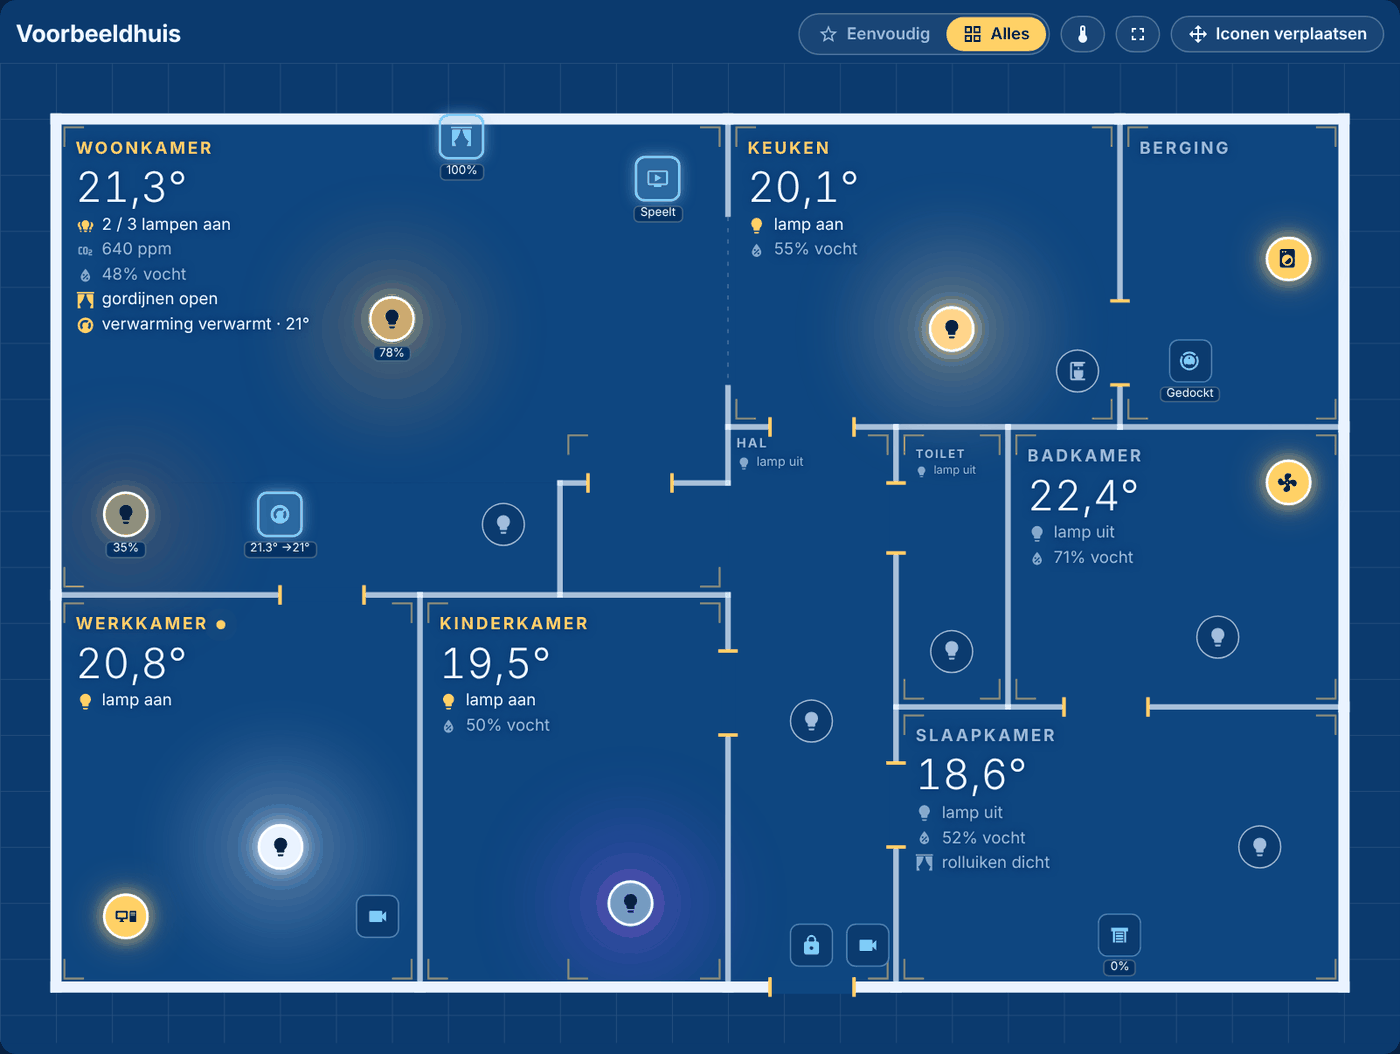
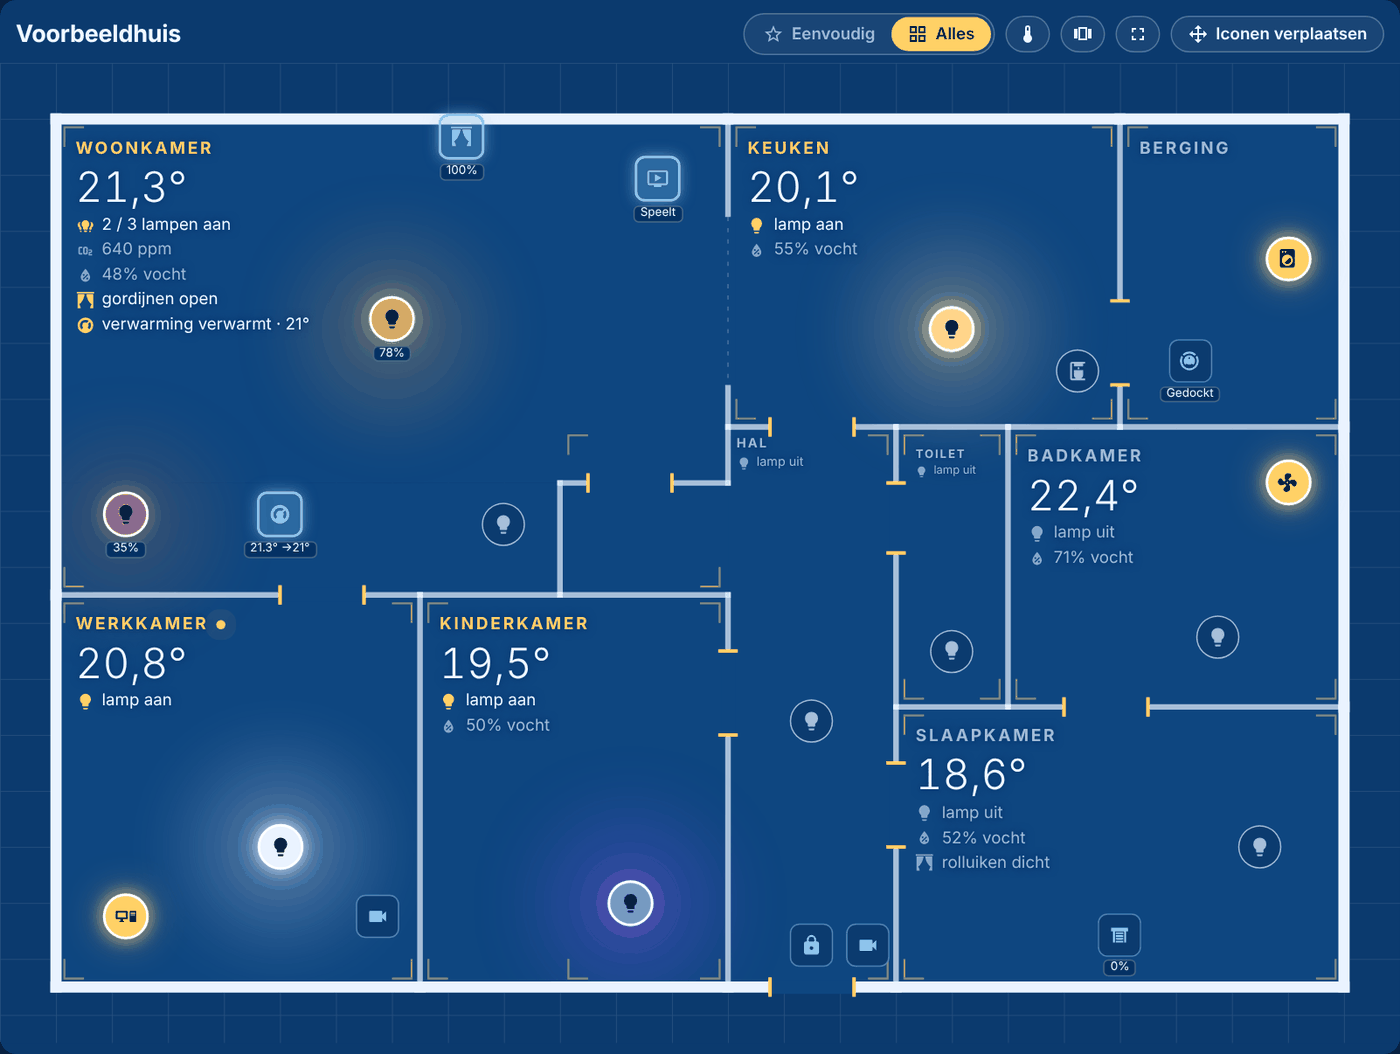
1.1.3: knop per ruimte / hele plattegrond, per apparaat

Changed region(s): [[0.5529, 0.0, 0.7679, 0.0607], [0.0614, 0.4554, 0.1229, 0.5161]]

diff --git a/custom_components/floorplan_studio/frontend/floorplan-studio-card.js b/custom_components/floorplan_studio/frontend/floorplan-studio-card.js
@@ -4,8 +4,8 @@ import {
   PLACE_DOMAINS, LAMP_DOMAINS, settingsOf, levelMode, isOn, friendly, lightColor, shortState, loadPlans, savePlan, loadUsage, fire, esc,
   themeFromEntity, themeKey, roomPath, navigate, tempColor, roomPresence, roomAlerts, planVacuum, vacuumMapEntity, VACUUM_BUSY, transformImage,
   labelSpot, roomTextWidth,
-} from './fps-core.js?v=1.1.2';
-import { roomInfo, greeting, sideConfig, weatherInfo, mainAction, energyInfo, statusRow } from './fps-info.js?v=1.1.2';
+} from './fps-core.js?v=1.1.3';
+import { roomInfo, greeting, sideConfig, weatherInfo, mainAction, energyInfo, statusRow } from './fps-info.js?v=1.1.3';
 
 
 const CSS = `
@@ -334,6 +334,7 @@ class FloorplanStudioCard extends HTMLElement {
         </div>
         ${this._config.show_theme_toggle ? `<label class="themesel"><ha-icon icon="mdi:palette"></ha-icon><select id="theme">${this._themeChoices.map(([k, v]) => `<option value="${k}" ${k === this._realTheme ? 'selected' : ''}>${v}</option>`).join('')}</select></label>` : ''}
         <button class="btn icon ${this._tempOn ? 'active' : ''}" id="tempc" title="${t(h, 'temp_colors')}"><ha-icon icon="mdi:thermometer"></ha-icon></button>
+        ${this._compactButton ? `<button class="btn icon ${this._compact ? 'active' : ''}" id="cmp" title="${t(h, this._compact ? 'whole_plan' : 'by_room')}"><ha-icon icon="${this._compact ? 'mdi:floor-plan' : 'mdi:view-carousel-outline'}"></ha-icon></button>` : ''}
         <button class="btn icon" id="fs" title="Kiosk"><ha-icon icon="${isFull() ? 'mdi:fullscreen-exit' : 'mdi:fullscreen'}"></ha-icon></button>
         ${this._isAdmin ? `<button class="btn ${this._moving ? 'active' : ''}" id="move"><ha-icon icon="mdi:cursor-move"></ha-icon><span class="lbl">${t(h, this._moving ? 'done' : 'move')}</span></button>` : ''}
       </div>` : '';
@@ -377,6 +378,7 @@ class FloorplanStudioCard extends HTMLElement {
     });
     root.querySelector('#tempc')?.addEventListener('click', () => { this._setPref('temp', this._tempOn ? 'off' : 'on'); this._build(); });
     root.querySelector('#move')?.addEventListener('click', () => { this._moving = !this._moving; this._build(); });
+    root.querySelector('#cmp')?.addEventListener('click', () => { this._setPref('compact', this._compact ? 'off' : 'on'); this._zoomRoom = null; try { sessionStorage.setItem(`fps-croom-${this._plan.id}`, ''); } catch (e) { /* ignore */ } this._build(); });
     const fs = () => toggleFull();
     root.querySelector('#fs')?.addEventListener('click', fs);
     root.querySelector('.kioskstart')?.addEventListener('click', (ev) => { ev.stopPropagation(); ev.currentTarget.remove(); fs(); });
@@ -903,12 +905,22 @@ class FloorplanStudioCard extends HTMLElement {
   /** Narrow card (phone): the plan is too small for its icons, so it is shown room by room. */
   get _compactWanted() {
     if (this._config.room || this.planOverride || !this._plan) return false;
-    const mode = this._config.compact ?? this._s.compact ?? 'auto';
+    const card = this._config.compact;                       // the card's own option wins
+    if (card === 'off' || card === false) return false;
+    if (card === 'on' || card === true) return true;
+    const mine = this._pref('compact', '');                  // then this device's choice (the toolbar button)
+    if (mine === 'on') return true;
+    if (mine === 'off') return false;
+    const mode = this._s.compact ?? 'auto';
     if (mode === 'off' || mode === false) return false;
     if (mode === 'on' || mode === true) return true;
     const w = this.clientWidth, limit = Number(this._s.compact_width) || 560;
     if (!w) return !!this._compact;                       // hidden or mid-transition (e.g. entering full screen): keep what we have
     return this._compact ? w < limit + 48 : w < limit;     // a margin, so a scrollbar coming and going can't flip it back and forth
+  }
+  /** The toolbar button to switch this device between room by room and the whole plan. */
+  get _compactButton() {
+    return this._config.compact == null && !this._config.room && !this.planOverride && this._s.compact !== 'off';
   }
   _compactCheck() {
     const want = this._compactWanted;

diff --git a/custom_components/floorplan_studio/frontend/fps-core.js b/custom_components/floorplan_studio/frontend/fps-core.js
@@ -1,11 +1,11 @@
 // Floorplan Studio – shared helpers for the card and the editor panel.
 
-export const VERSION = '1.1.2';
+export const VERSION = '1.1.3';
 
 /* ------------------------------------------------------------------ i18n */
 const STR = {
   en: {
-    simple: 'Simple', all: 'All', move: 'Move icons', done: 'Done', back: 'Back', overview: 'Overview',
+    simple: 'Simple', all: 'All', move: 'Move icons', done: 'Done', back: 'Back', overview: 'Overview', by_room: 'Room by room', whole_plan: 'Whole plan',
     lights_on: '{n} / {t} lights on', no_plan: 'No floorplan yet. Open “Floorplan” in the sidebar to draw your home.',
     loading: 'Loading floorplan…', unplaced: 'Also in this room', saved: 'Saved', learning: 'Simple mode is still learning ({d} days of data) – showing everything.',
     on: 'on', off: 'off', open: 'open', closed: 'closed', hum: 'humidity {v}%', theme: 'Theme', kiosk_tap: 'Tap to go full screen', in_room: 'In this room',
@@ -17,7 +17,7 @@ const STR = {
     a_door: 'Door open', a_window: 'Window open', a_garage_door: 'Garage door open', a_opening: 'Open',
   },
   nl: {
-    simple: 'Eenvoudig', all: 'Alles', move: 'Iconen verplaatsen', done: 'Klaar', back: 'Terug', overview: 'Overzicht',
+    simple: 'Eenvoudig', all: 'Alles', move: 'Iconen verplaatsen', done: 'Klaar', back: 'Terug', overview: 'Overzicht', by_room: 'Per ruimte', whole_plan: 'Hele plattegrond',
     lights_on: '{n} / {t} lampen aan', no_plan: 'Nog geen plattegrond. Open “Floorplan” in de zijbalk om je huis te tekenen.',
     loading: 'Plattegrond laden…', unplaced: 'Ook in deze ruimte', saved: 'Opgeslagen', learning: 'Eenvoudig leert nog ({d} dagen data) – alles wordt getoond.',
     on: 'aan', off: 'uit', open: 'open', closed: 'dicht', hum: 'vocht {v}%', theme: 'Thema', kiosk_tap: 'Tik voor volledig scherm', in_room: 'In deze ruimte',

diff --git a/custom_components/floorplan_studio/frontend/fps-dashboard.js b/custom_components/floorplan_studio/frontend/fps-dashboard.js
@@ -1,7 +1,7 @@
 // Floorplan Studio – builds a complete dashboard around a floorplan:
 // Home · Floorplan · Kiosk · Energy · Outside · TV, plus a page per room (tabs are only added when there is something to show).
 // Uses only built-in cards, and nicer HACS cards (advanced-camera-card, clock-weather-card) when they are installed.
-import { entityArea, roomPath } from './fps-core.js?v=1.1.2';
+import { entityArea, roomPath } from './fps-core.js?v=1.1.3';
 
 const OUTSIDE = /buiten|tuin|outside|outdoor|garden|yard|oprit|driveway|terras|patio|balkon|balcony|garage|voortuin|achtertuin|poort|gate|dak|roof|straat|street/i;
 

diff --git a/custom_components/floorplan_studio/frontend/floorplan-studio-panel.js b/custom_components/floorplan_studio/frontend/floorplan-studio-panel.js
@@ -1,10 +1,10 @@
 // Floorplan Studio – editor panel (sidebar → Floorplan).
-import './floorplan-studio-card.js?v=1.1.2';
+import './floorplan-studio-card.js?v=1.1.3';
 import {
   VERSION, THEMES, themeStyle, computeWalls, nearestWall, norm, roomBBox, roomAt, areaEntities, entityArea,
   PLACE_DOMAINS, placeCandidates, friendly, newPlan, DEFAULT_SETTINGS, settingsOf, levelMode, loadPlans, savePlan, esc,
-} from './fps-core.js?v=1.1.2';
-import { buildDashboard } from './fps-dashboard.js?v=1.1.2';
+} from './fps-core.js?v=1.1.3';
+import { buildDashboard } from './fps-dashboard.js?v=1.1.3';
 
 const L = {
   en: {

diff --git a/custom_components/floorplan_studio/frontend/fps-info.js b/custom_components/floorplan_studio/frontend/fps-info.js
@@ -1,6 +1,6 @@
 // Floorplan Studio – what the room text blocks and the side column show.
 // Pure functions on `hass` (no DOM), so they are easy to test.
-import { areaEntities, roomSummary, friendly, shortState, settingsOf, isOn } from './fps-core.js?v=1.1.2';
+import { areaEntities, roomSummary, friendly, shortState, settingsOf, isOn } from './fps-core.js?v=1.1.3';
 
 const NL = (hass) => (hass?.locale?.language || hass?.language || 'en').startsWith('nl');
 const W = (hass, nl, en) => (NL(hass) ? nl : en);

diff --git a/custom_components/floorplan_studio/const.py b/custom_components/floorplan_studio/const.py
@@ -1,7 +1,7 @@
 """Constants for Floorplan Studio."""
 
 DOMAIN = "floorplan_studio"
-VERSION = "1.1.2"
+VERSION = "1.1.3"
 
 STORAGE_KEY = "floorplan_studio.plans"
 STORAGE_KEY_USAGE = "floorplan_studio.usage"

diff --git a/README.md b/README.md
@@ -52,7 +52,7 @@ An interactive floorplan of your home for your Home Assistant dashboards. You dr
 - **A complete dashboard in one click:** Home (a card per room), Floorplan, Kiosk (with a menu bar to the other tabs), Energy, Outside, TV, plus a page per room. Uses advanced-camera-card and clock-weather-card when you have them.
 - **Editor in the sidebar** (*Floorplan*). It walks you through six steps, and the plan is stored inside Home Assistant itself (`.storage`), so no YAML files are involved. Plans can be imported and exported as JSON.
 - **Full screen that stays.** ⛶ puts the whole page in full screen, hides Home Assistant's header and sidebar and shows a menu bar; switching tabs keeps you in full screen.
-- **Phones: room by room.** On a narrow screen the card shows a bar with your rooms: an overview with names and temperatures, or one room filling the width with big, easy-to-tap icons. Swipe for the next room; everything outside the room is dimmed.
+- **Phones: room by room.** On a narrow screen the card shows a bar with your rooms: an overview with names and temperatures, or one room filling the width with big, easy-to-tap icons. Swipe for the next room; everything outside the room is dimmed. Tablets and PCs get the same view with the *Room by room* button in the toolbar (each device remembers its choice).
 - Works on tablets, wall panels and TVs too.
 
 ## Installation

diff --git a/docs/HANDLEIDING.md b/docs/HANDLEIDING.md
@@ -223,7 +223,9 @@ Op een smal scherm (standaard smaller dan 560 pixels, dus de meeste telefoons) i
 - Een **ruimte** vult de hele breedte, met grote iconen die je makkelijk raakt. Erboven staan de naam, de temperatuur en de regels van het tekstblok. Alles buiten de ruimte wordt gedimd.
 - **Veeg** over de plattegrond naar links of rechts voor de volgende of vorige ruimte.
 
-Bij stap 5 stel je onder *Kleine schermen* in vanaf welke breedte dit gebeurt, of zet je het altijd aan of uit. Per kaart kan dat ook met `compact: on` of `compact: off`.
+Wil je dit ook op een tablet of pc? Tik in de werkbalk op het knopje **Per ruimte** (het icoon met de kaartjes). Nog een keer tikken geeft weer de **hele plattegrond**. Elk apparaat onthoudt zijn eigen keuze, dus je tablet kan per ruimte staan terwijl je pc de hele kaart laat zien.
+
+Bij stap 5 stel je onder *Kleine schermen* in vanaf welke breedte dit vanzelf gebeurt, of zet je het altijd aan of uit. Per kaart kan dat ook met `compact: on` of `compact: off`.
 
 ### Camera
 

diff --git a/CHANGELOG.md b/CHANGELOG.md
@@ -1,5 +1,8 @@
 # Changelog
 
+## 1.1.3
+- Knop **Per ruimte / Hele plattegrond** in de werkbalk: zet de telefoonweergave ook aan op een tablet of pc. Elk apparaat onthoudt zijn eigen keuze.
+
 ## 1.1.2
 - Volledig scherm op Android sprong terug: tijdens de overgang meet de kaart heel even breedte 0 en schakelde dan uit de telefoonweergave. Dat gebeurt niet meer.
 - Geen heen-en-weer meer rond de grens van de telefoonweergave (een schuifbalk kon de pagina laten vastlopen): er zit nu marge op en de kaart wacht tot de breedte stil staat.
